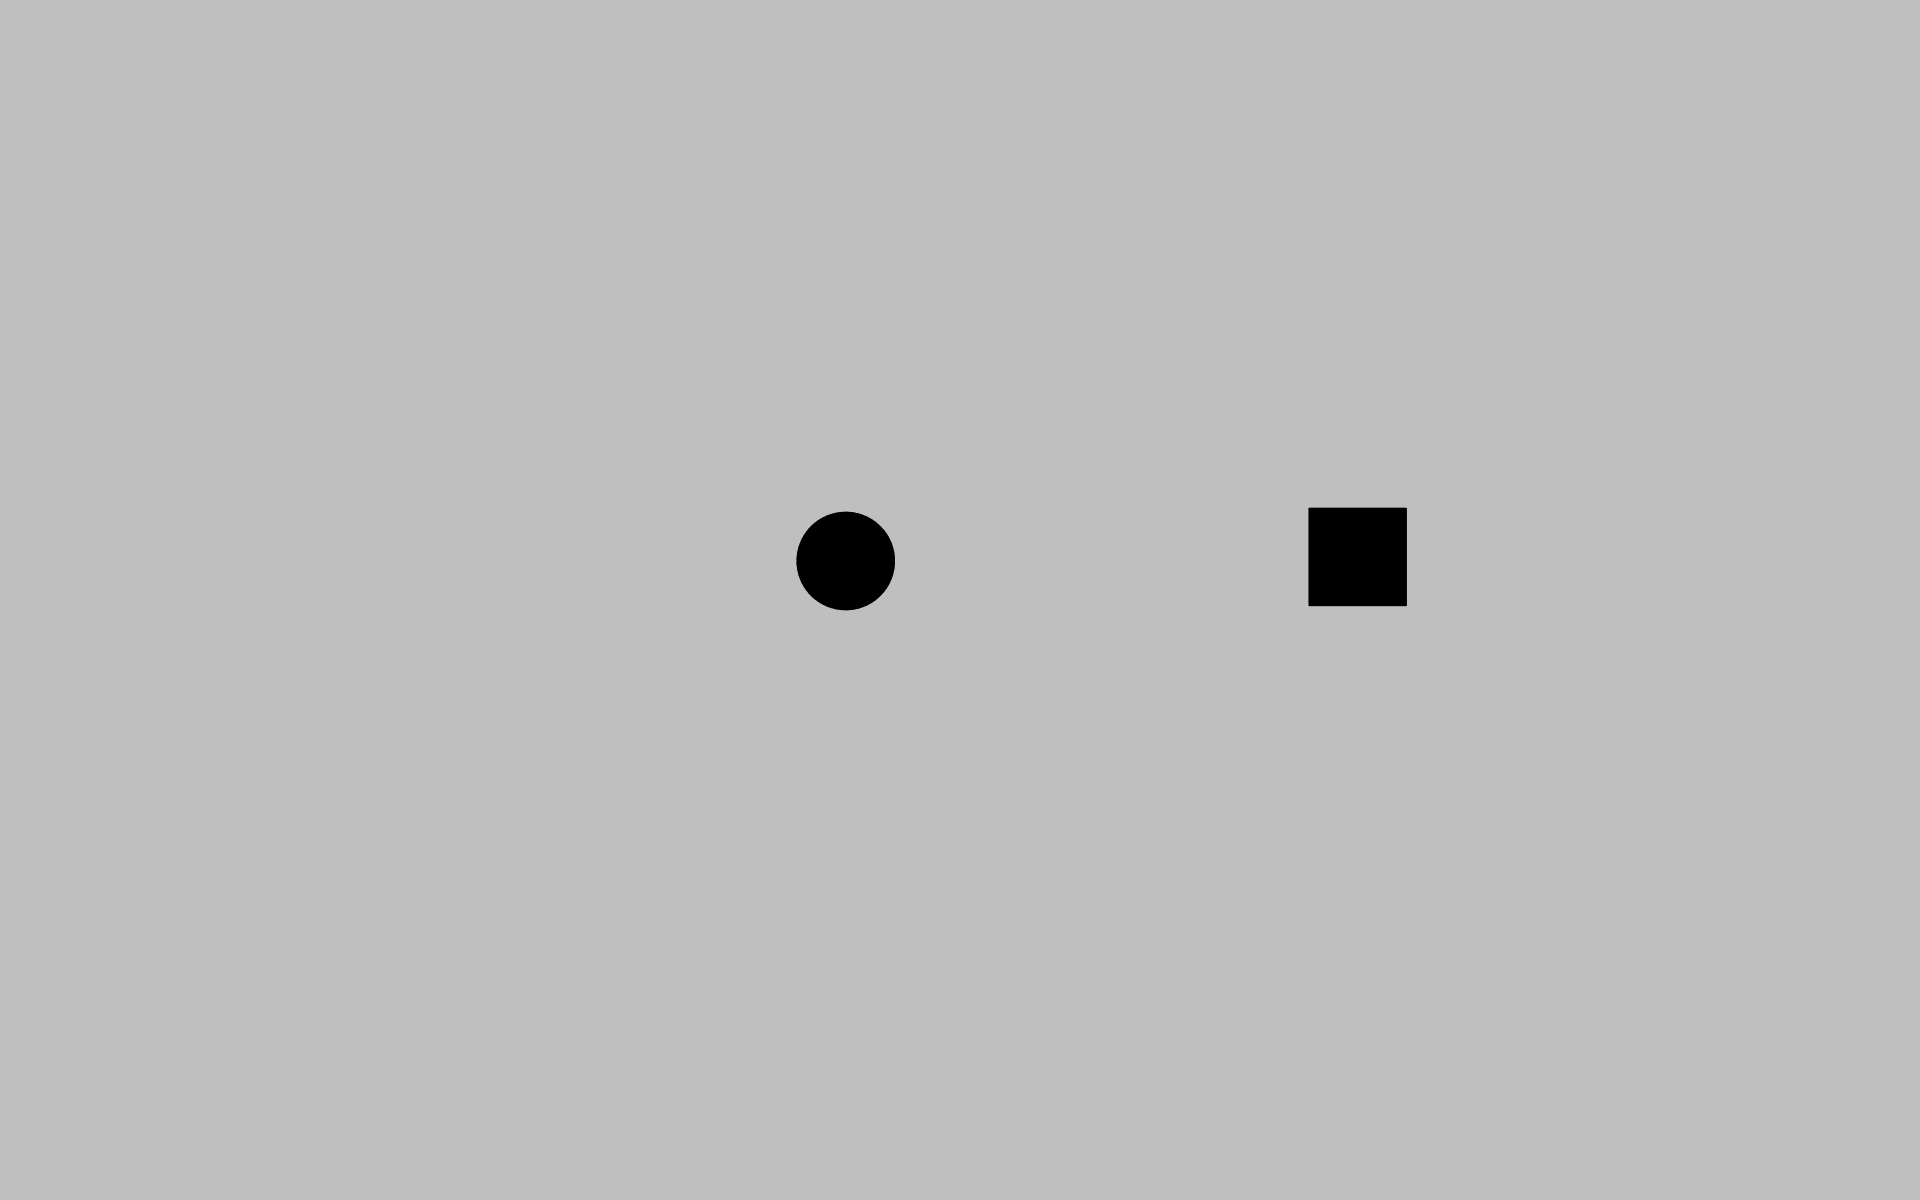
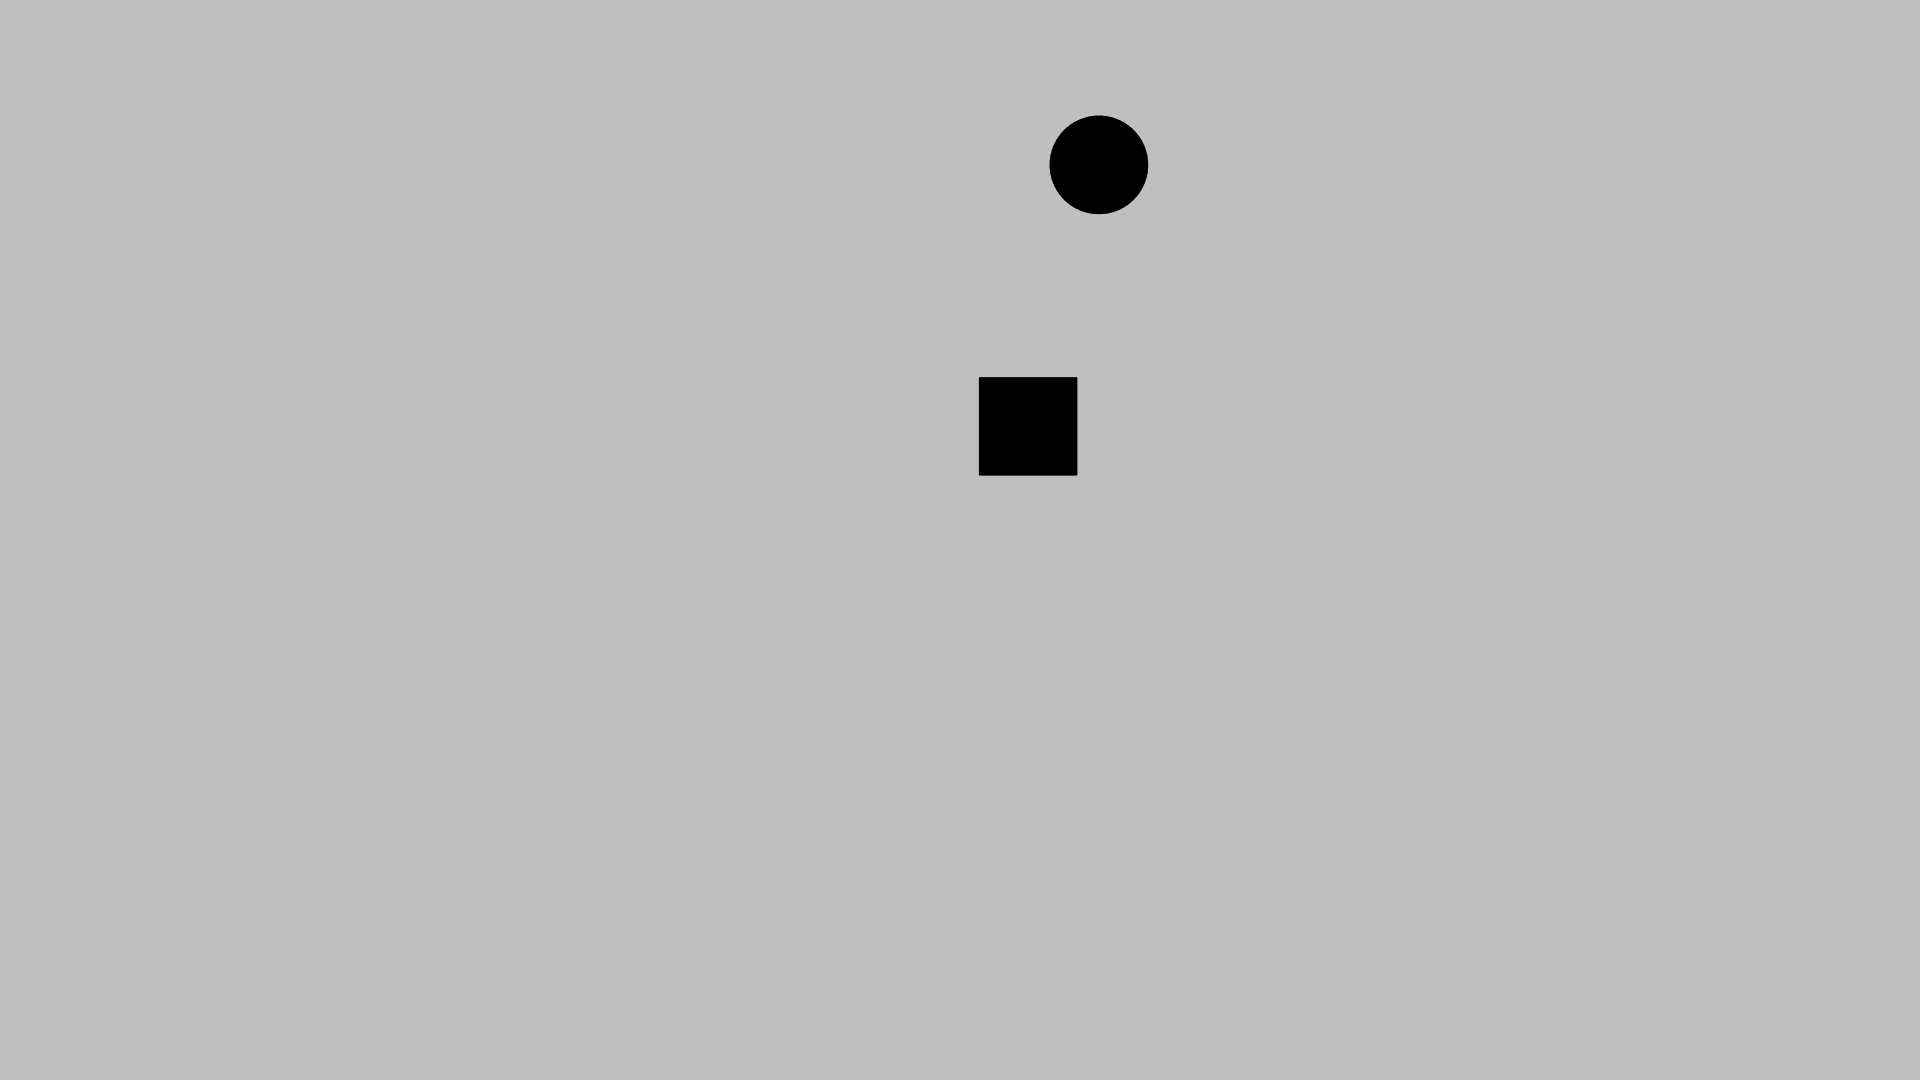
analysis and experimental script fixed

diff --git a/CDmem/CDmem_analyses.py b/CDmem/CDmem_analyses.py
@@ -545,51 +545,101 @@ def fit_glmm_with_fallback(formula_maximal, formula_minimal, data_pl, family="bi
 # ============================================================================
 
 def analyze_recognition(main_data, recog_data):
+    """
+    Calculate recognition performance (HR, FA, d-prime) per participant
+    and per control condition (including uncontrolled items).
+
+    Returns
+    -------
+    mem_results : pd.DataFrame
+        Participant-level summary (primary: high vs. low vs. uncontrolled).
+    targets : pd.DataFrame
+        Trial-level recognition data for old items with condition labels.
+    supp_mem_results : pd.DataFrame
+        Participant-level summary for 2x2 (trial_level x item_type).
+    """
     recog_data = recog_data.copy()
     
     # 1. Convert "yes"/"no" responses to True/False for calculation
     recog_data['said_old'] = recog_data['mem_response'].str.lower() == 'yes'
 
     # 2. Calculate FALSE ALARM RATE (Noise Baseline)
-    # We use all "unseen" items. These don't have a 'controlled' status.
     foils = recog_data[recog_data['mem_ground_truth'] == 'unseen']
+    
+    if len(foils) == 0:
+        print("[WARNING] No foil ('unseen') trials found in recognition data.")
+        return None, None, None
+        
     fa_rates = foils.groupby('participant')['said_old'].mean().reset_index()
     fa_rates.rename(columns={'said_old': 'FA_rate'}, inplace=True)
 
-    # 3. Calculate HIT RATES (Signal)
-    # Only look at "seen" items. 
-    # Use 'controlled' as the condition (since 'control_condition' doesn't exist).
+    # 3. Process targets using the newly added direct tracking columns
     targets = recog_data[recog_data['mem_ground_truth'] == 'seen'].copy()
     
-    # Check if 'controlled' column exists; if not, you might need to check the exact spelling
-    condition_col = 'controlled' 
-    
-    hit_rates = (
-        targets
-        .groupby(['participant', condition_col])['said_old']
-        .mean()
-        .reset_index()
-        .rename(columns={'said_old': 'Hit_rate', condition_col: 'control_condition'})
+    # Check if we have the new logging (from updated CDmem_1.py)
+    if 'item_type' not in targets.columns or 'trial_level' not in targets.columns:
+        print("[INFO] Recognition data lacks condition tracking columns. Falling back to filename matching (for older subjects).")
+        # Build image -> condition lookup from main_data
+        if 'phase' in main_data.columns:
+            test_data = main_data[main_data['phase'] == 'test'].copy()
+        else:
+            test_data = main_data.copy()
+            
+        img_lookups = []
+        for _, row in test_data.iterrows():
+            px       = row['participant']
+            cond     = row['control_condition']
+            target_img = row['true_controlled']
+
+            img_lookups.append({
+                'participant':      px,
+                'mem_filename':     row['img_A_name' if target_img == 'img_A' else 'img_B_name'],
+                'trial_level':      cond,
+                'item_type':        'controlled'
+            })
+            img_lookups.append({
+                'participant':      px,
+                'mem_filename':     row['img_B_name' if target_img == 'img_A' else 'img_A_name'],
+                'trial_level':      cond,
+                'item_type':        'uncontrolled'
+            })
+        img_lookup = pd.DataFrame(img_lookups)
+        img_lookup.dropna(subset=['mem_filename'], inplace=True)
+        img_lookup.drop_duplicates(subset=['participant', 'mem_filename'], inplace=True)
+        
+        # Merge targets with condition labels
+        targets = targets.merge(img_lookup, on=['participant', 'mem_filename'], how='left')
+
+    # Derive 'control_condition' exactly as the old script expected for PRIMARY analysis:
+    # If controlled -> 'high' or 'low'. If uncontrolled -> 'uncontrolled'
+    targets['control_condition'] = targets.apply(
+        lambda row: row['trial_level'] if row['item_type'] == 'controlled' else 'uncontrolled',
+        axis=1
     )
 
-    # 4. Merge Hit rates with the FA baseline to get d-prime
+    # 4. Primary Hit Rates
+    hit_rates = (
+        targets
+        .groupby(['participant', 'control_condition'])['said_old']
+        .mean()
+        .reset_index()
+        .rename(columns={'said_old': 'Hit_rate'})
+    )
+
     results = hit_rates.merge(fa_rates, on='participant', how='left')
     results['d_prime'] = results.apply(
         lambda row: calc_dprime(row['Hit_rate'], row['FA_rate']), axis=1
     )
 
-    # 5. Handle the 2x2 Supplementary analysis if the columns exist
-    # You mentioned 'trial_level' and 'item_type'—ensure these are the exact names in CSV
-    results_supp = None
-    if 'trial_level' in targets.columns and 'item_type' in targets.columns:
-        results_supp = (
-            targets.groupby(['participant', 'trial_level', 'item_type'])['said_old']
-            .mean().reset_index().rename(columns={'said_old': 'Hit_rate'})
-            .merge(fa_rates, on='participant')
-        )
-        results_supp['d_prime'] = results_supp.apply(
-            lambda row: calc_dprime(row['Hit_rate'], row['FA_rate']), axis=1
-        )
+    # 5. Supplementary Analysis 2x2 Hit Rates (trial_level x item_type)
+    results_supp = (
+        targets.groupby(['participant', 'trial_level', 'item_type'])['said_old']
+        .mean().reset_index().rename(columns={'said_old': 'Hit_rate'})
+        .merge(fa_rates, on='participant', how='left')
+    )
+    results_supp['d_prime'] = results_supp.apply(
+        lambda row: calc_dprime(row['Hit_rate'], row['FA_rate']), axis=1
+    )
 
     return results, targets, results_supp
 

diff --git a/CDmem/CDmem_1.py b/CDmem/CDmem_1.py
@@ -959,8 +959,9 @@ image_pairs = make_image_pairs(sampled_test_images, _pair_seed)
 pair_index = 0
 
 # Mapping to track if an image was controlled ('yes') or distractor ('no')
+# Used to store the 'yes'/'no' control state and 'high'/'low' condition for memory test images
 image_control_map = {}
-
+image_condition_map = {}
 # ── Foil images for the memory test ──────────────────────────────────────────
 # We already populated `foil_images` from the paired subset sampled above.
 # The `foil_images` list contains exactly N_IMAGES (240) unseen images that are 
@@ -1389,7 +1390,8 @@ def run_trial_2shapes(trial_in_block, phase, mode, block_num=1,
         image_control_map[img_B_info['filename']] = 'yes' if target == left_label and left_label == 'img_B' \
                                                     else 'yes' if target == right_label and right_label == 'img_B' \
                                                     else 'no'
-
+        image_condition_map[img_A_info['filename']] = control_condition
+        image_condition_map[img_B_info['filename']] = control_condition
     # Get 2 unique trajectory snippets: one for target, one for distractor.
     trajectory_indices = get_trajectory_indices(2)
     target_snippet_idx, distractor_snippet_idx = trajectory_indices[0], trajectory_indices[1]
@@ -2130,6 +2132,8 @@ def run_memory_test(seen_images, foil_images_list):
             'mem_filename':     item['filename'],
             'mem_ground_truth': ground_truth,
             'controlled':       image_control_map.get(item['filename'], float('nan')),
+            'trial_level':      image_condition_map.get(item['filename'], float('nan')),
+            'item_type':        'controlled' if image_control_map.get(item['filename']) == 'yes' else 'uncontrolled' if image_control_map.get(item['filename']) == 'no' else float('nan'),
             'mem_response':     mem_response,
             'mem_rt':           mem_rt,
             'mem_trigger_onset': mem_trigger_onset,
